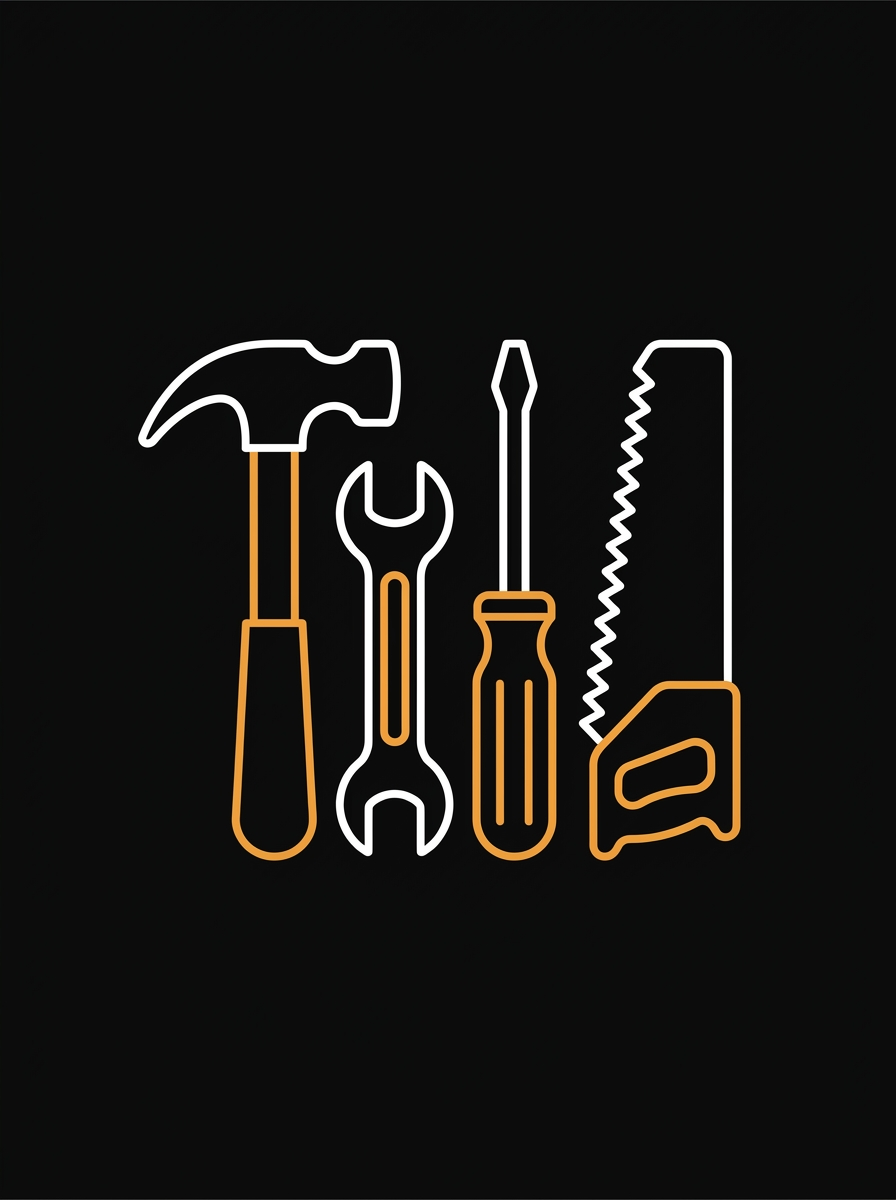
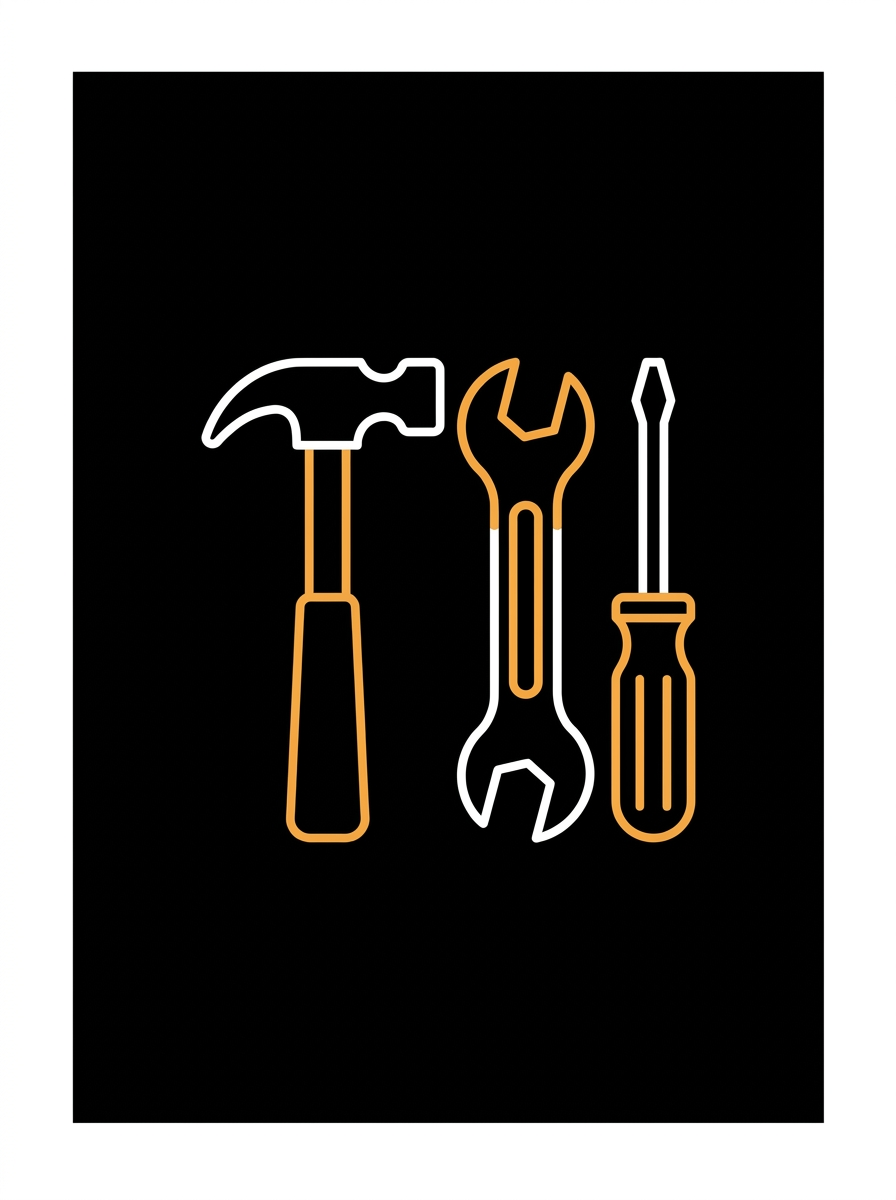
fix: hero ilustracija bez testere, pozicionirana dole-desno
Nova generacija alata (čekić, ključ, odvijač), manja i diskretna,
apsolutno pozicionirana u donjem desnom uglu hero sekcije.

diff --git a/components/HeroIllustration.tsx b/components/HeroIllustration.tsx
@@ -2,20 +2,23 @@ import Image from "next/image";
 
 export function HeroIllustration() {
   return (
-    <Image
-      src="/hero-tools.jpg"
-      alt="Majstorski alati — čekić, ključ, odvijač, testera"
-      width={380}
-      height={506}
-      priority
-      style={{
-        width: "100%",
-        height: "100%",
-        objectFit: "contain",
-        borderRadius: "1rem",
-        opacity: 0.9,
-      }}
-    />
+    <div className="hero-illustration">
+      <Image
+        src="/hero-tools.jpg"
+        alt=""
+        aria-hidden="true"
+        width={220}
+        height={294}
+        priority
+        style={{
+          width: "100%",
+          height: "100%",
+          objectFit: "contain",
+          mixBlendMode: "screen",
+          opacity: 0.28,
+        }}
+      />
+    </div>
   );
 }
 

diff --git a/app/globals.css b/app/globals.css
@@ -66,11 +66,12 @@ html, body {
 
 @media (min-width: 1024px) {
   .hero-illustration {
-    display: flex;
-    align-items: center;
-    justify-content: center;
-    width: 380px;
-    height: 440px;
-    flex-shrink: 0;
+    display: block;
+    position: absolute;
+    bottom: -1.5rem;
+    right: 12rem;
+    width: 160px;
+    height: 214px;
+    pointer-events: none;
   }
 }